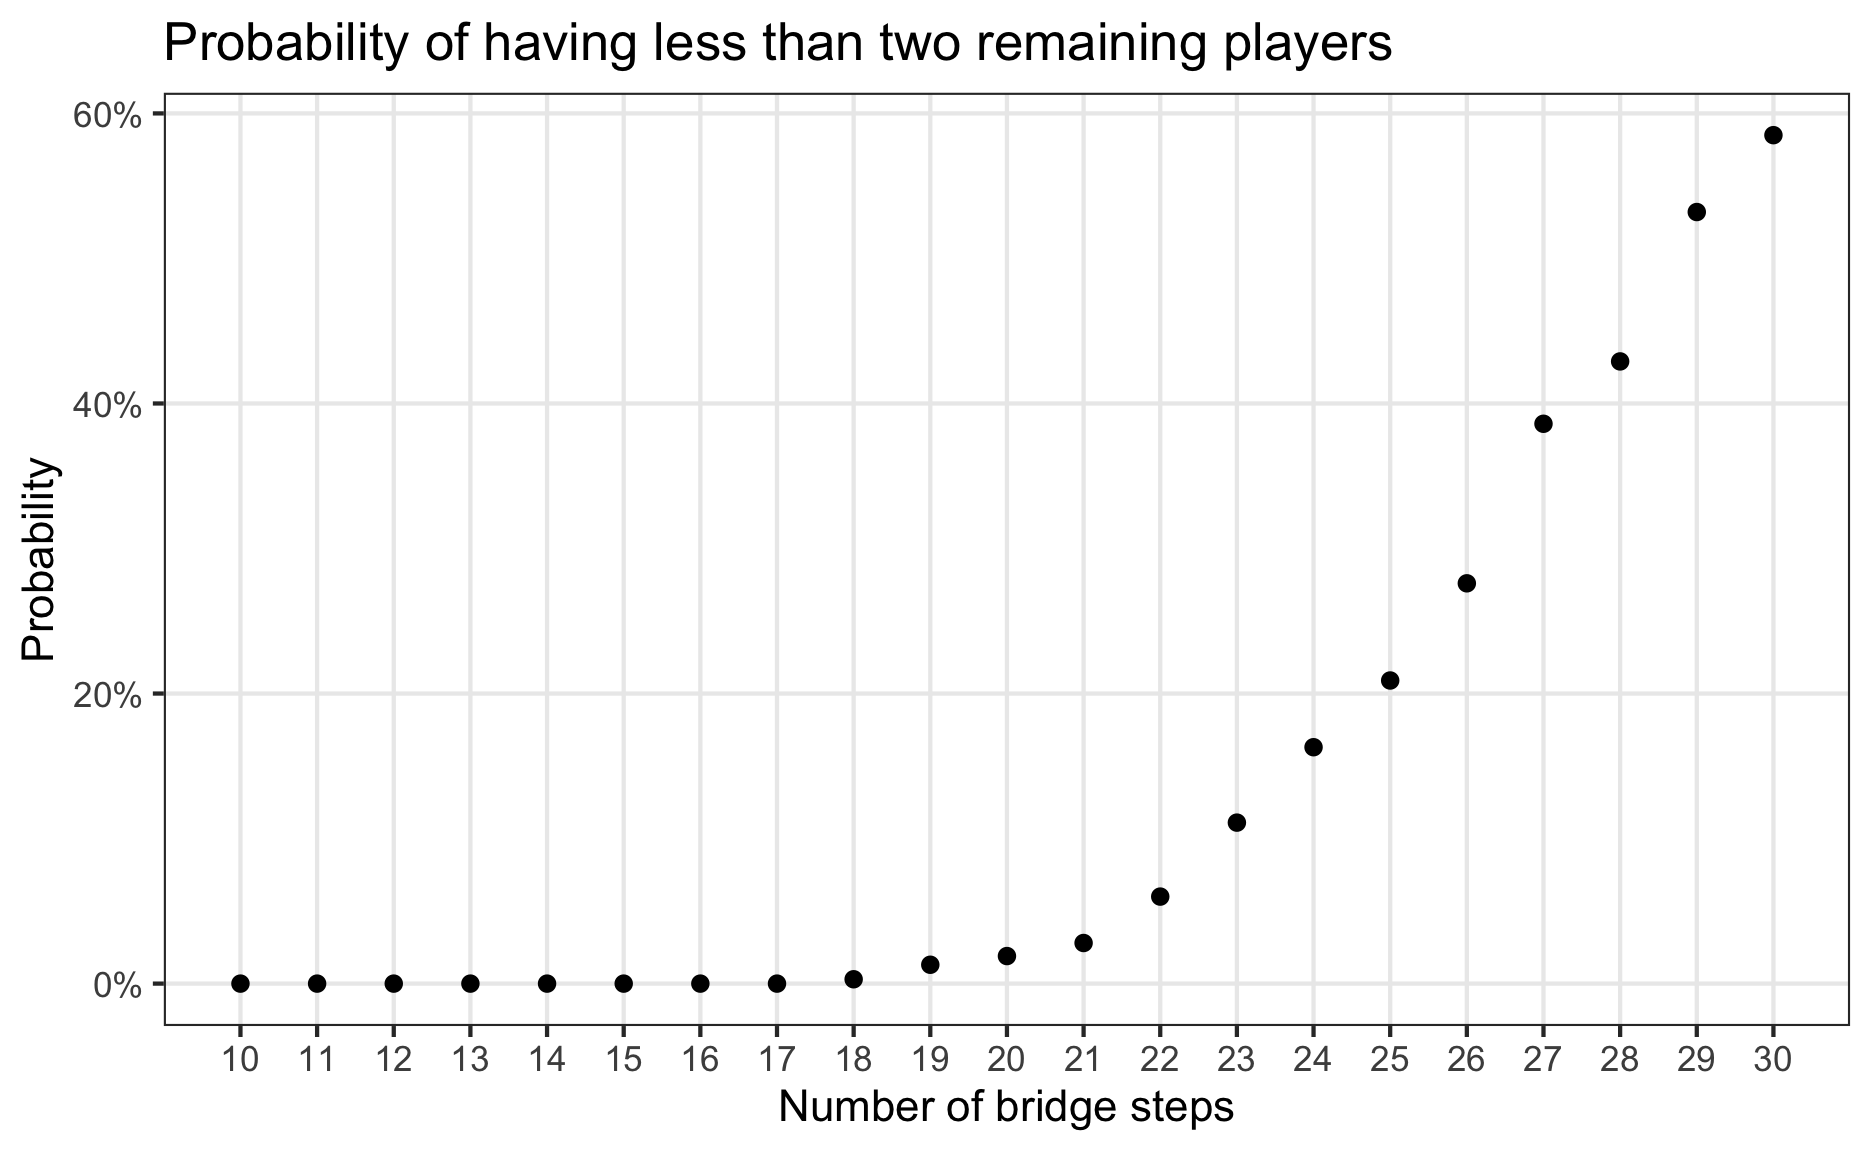
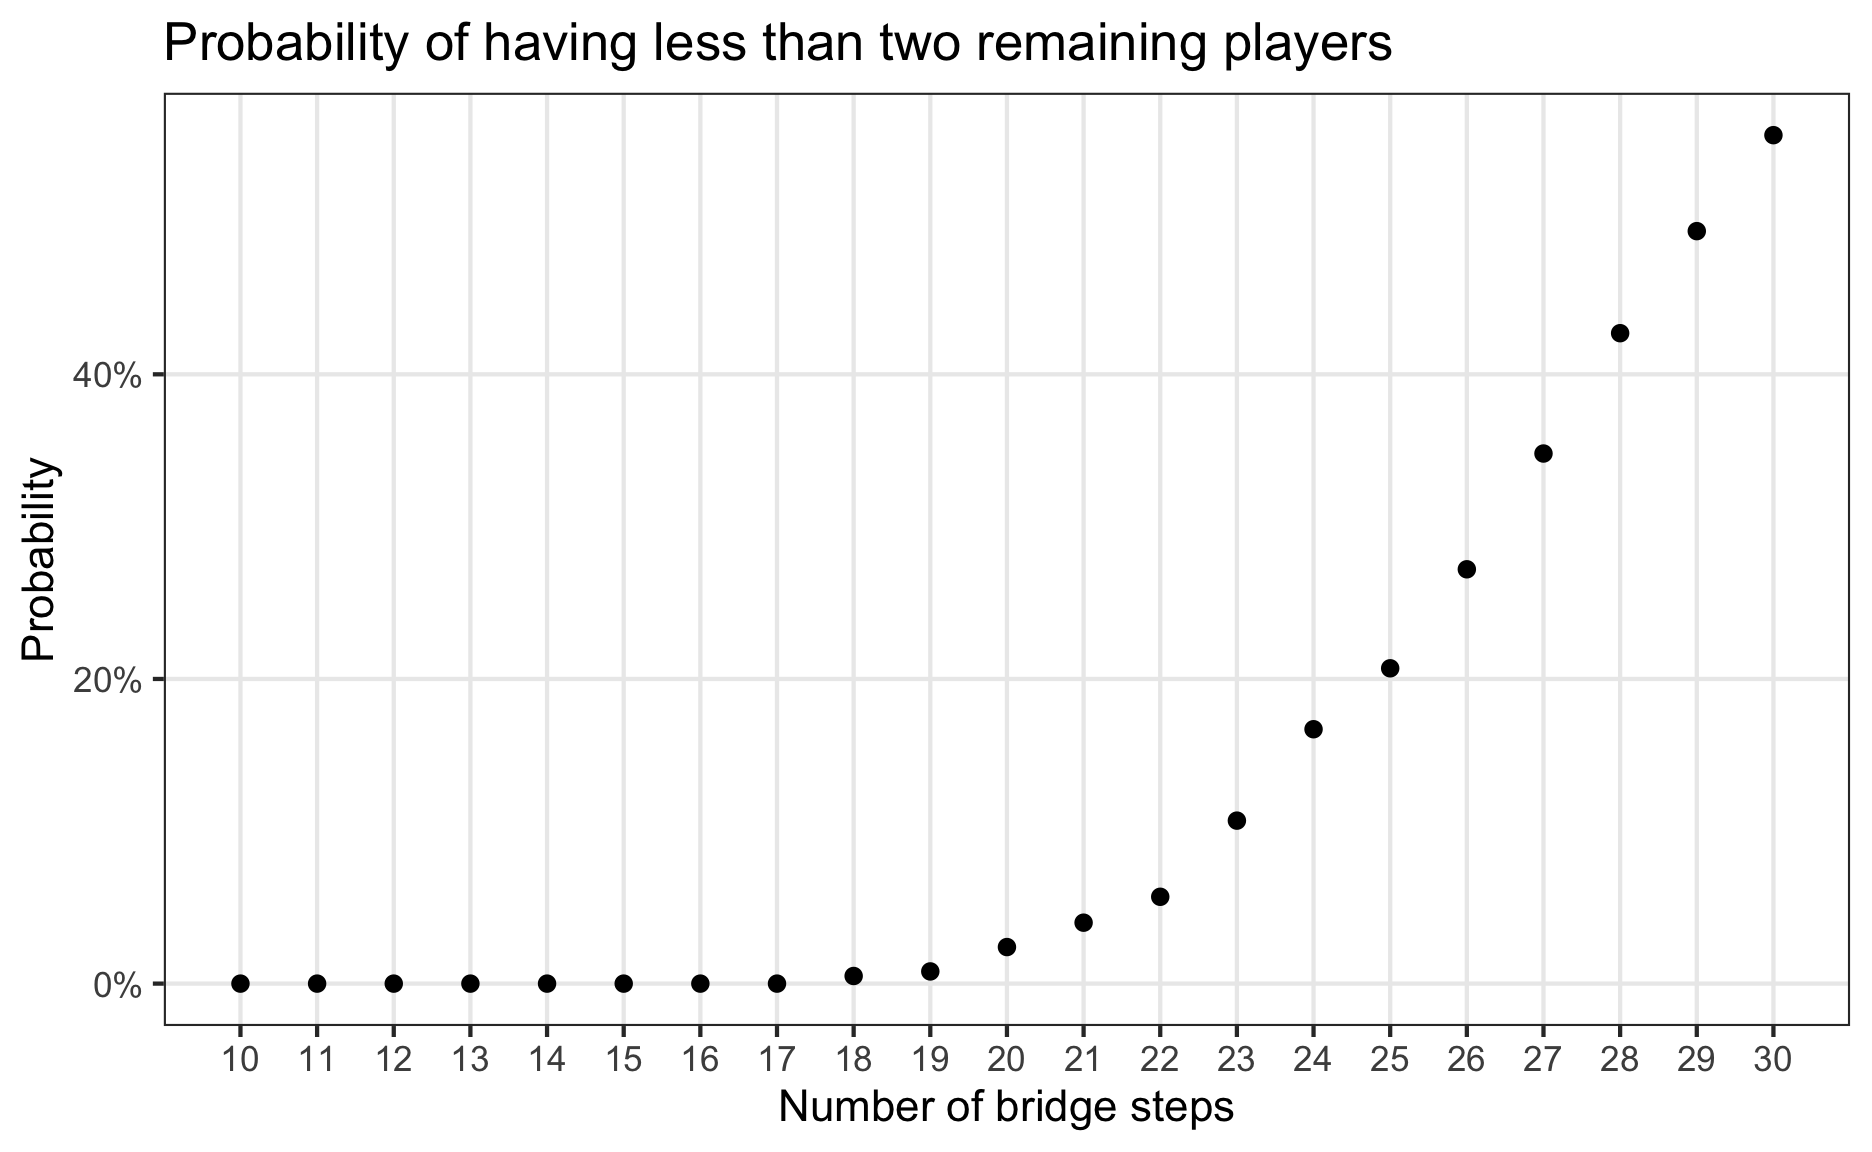
fixed small typos in the squid game post

diff --git a/_posts/2021-10-19-monte-carlo-bridge-game/monte-carlo-bridge-game.html b/_posts/2021-10-19-monte-carlo-bridge-game/monte-carlo-bridge-game.html
@@ -117,7 +117,7 @@ code span.wa { color: #5e5e5e; font-style: italic; } /* Warning */
   <!--/radix_placeholder_rmarkdown_metadata-->
   
   <script type="text/json" id="radix-resource-manifest">
-  {"type":"character","attributes":{},"value":["figs/unnamed-chunk-11-1.png","figs/unnamed-chunk-7-1.png","figs/unnamed-chunk-8-1.png","squid-game.png"]}
+  {"type":"character","attributes":{},"value":["figs/unnamed-chunk-11-1.png","figs/unnamed-chunk-7-1.png","figs/unnamed-chunk-8-1.png","monte-carlo-bridge-game_files/anchor-4.2.2/anchor.min.js","monte-carlo-bridge-game_files/bowser-1.9.3/bowser.min.js","monte-carlo-bridge-game_files/distill-2.2.21/template.v2.js","monte-carlo-bridge-game_files/header-attrs-2.11/header-attrs.js","monte-carlo-bridge-game_files/jquery-3.6.0/jquery-3.6.0.js","monte-carlo-bridge-game_files/jquery-3.6.0/jquery-3.6.0.min.js","monte-carlo-bridge-game_files/jquery-3.6.0/jquery-3.6.0.min.map","monte-carlo-bridge-game_files/popper-2.6.0/popper.min.js","monte-carlo-bridge-game_files/tippy-6.2.7/tippy-bundle.umd.min.js","monte-carlo-bridge-game_files/tippy-6.2.7/tippy-light-border.css","monte-carlo-bridge-game_files/tippy-6.2.7/tippy.css","monte-carlo-bridge-game_files/tippy-6.2.7/tippy.umd.min.js","monte-carlo-bridge-game_files/webcomponents-2.0.0/webcomponents.js","squid-game.png"]}
   </script>
   <!--radix_placeholder_navigation_in_header-->
   <!--/radix_placeholder_navigation_in_header-->
@@ -1575,9 +1575,9 @@ code span.wa { color: #5e5e5e; font-style: italic; } /* Warning */
 <span class='va'>single_game</span>
 </code></pre>
 </div>
-<pre><code>#&gt;  [1] 0 0 0 0 0 0 0 0 0 1 1 1 1 1 1 1</code></pre>
+<pre><code>#&gt;  [1] 0 0 0 0 0 0 0 0 0 0 0 0 1 1 1 1</code></pre>
 </div>
-<p>So after one game, we had 7 survivors. But of course if we want to get an estimate of the <em>expected</em> number of survivors, we need to run lots of trials of the game (a lot of bits are about to die).</p>
+<p>So after one game, we had 4 survivors. But of course if we want to get an estimate of the <em>expected</em> number of survivors, we need to run lots of trials of the game (a lot of bits are about to die).</p>
 <h1 id="estimating-the-expected-number-of-survivors">Estimating the expected number of survivors</h1>
 <p>I ran my trials inside a data.table, a simulation strategy I picked up from <a href="https://grantmcdermott.com/">Grant McDermott</a> and his wonderful post on <a href="https://grantmcdermott.com/efficient-simulations-in-r/">efficient simulations in R</a>.</p>
 <div class="layout-chunk" data-layout="l-body">
@@ -1611,9 +1611,9 @@ code span.wa { color: #5e5e5e; font-style: italic; } /* Warning */
 #&gt;  4:      4     0    42
 #&gt;  5:      5     0    42
 #&gt;  6:      6     0    42
-#&gt;  7:      7     1    42
-#&gt;  8:      8     1    42
-#&gt;  9:      9     1    42
+#&gt;  7:      7     0    42
+#&gt;  8:      8     0    42
+#&gt;  9:      9     0    42
 #&gt; 10:     10     1    42
 #&gt; 11:     11     1    42
 #&gt; 12:     12     1    42
@@ -1661,7 +1661,7 @@ code span.wa { color: #5e5e5e; font-style: italic; } /* Warning */
 <blockquote>
 <p><strong>“Which number should I choose?”</strong></p>
 </blockquote>
-<p>Obviously choosing a larger number closer to the back of the line gives the player a higher probability of survival because the players in front identify all the “safe” glass panes. But how likely would you be to survive if you chose a number near the middle (which most players chose first)?</p>
+<p>Obviously choosing a larger number closer to the back of the line gives the player a higher probability of survival because the players in front identify all the “safe” glass panes. But how likely would you be to survive if you chose a number near the middle (which most players in the TV series chose first)?</p>
 <p>Since we have all the results of every trial outcome for every player in a convenient data.table, computing the probability of surviving for each player is straightforward:</p>
 <div class="layout-chunk" data-layout="l-body">
 <div class="sourceCode">
@@ -1693,9 +1693,9 @@ code span.wa { color: #5e5e5e; font-style: italic; } /* Warning */
 <span class='fu'><a href='https://rdrr.io/r/base/sum.html'>sum</a></span><span class='op'>(</span><span class='va'>trials_counts</span><span class='op'>$</span><span class='va'>count</span> <span class='op'>&lt;</span> <span class='fl'>2</span><span class='op'>)</span> <span class='op'>/</span> <span class='va'>num_trials</span>
 </code></pre>
 </div>
-<pre><code>#&gt; [1] 0.0032</code></pre>
+<pre><code>#&gt; [1] 0.0036</code></pre>
 </div>
-<p>Of course this is probably an under-estimate of the true probability of having less than two survivors because the players are humans, which might make some irrational choices when playing such a deadly game (as we saw play out in the TV series version of the game).</p>
+<p>Of course this is probably an under-estimate of the true probability of having less than two survivors because the players are human beings who tend to make irrational choices when playing a deadly game (as we saw play out in the TV series version of the game).</p>
 <p>Still, what if the game designers were more risk seeking? How many steps could they include if they were willing to live with, for example, a 5% chance of having less than 2 players remaining at the end of the bridge game?</p>
 <p>To answer that, we have to re-run our simulations, but with an increasing number of steps. To keep things simple, I run 1,000 iterations of the game over an increasing number of steps from 10 to 30:</p>
 <div class="layout-chunk" data-layout="l-body">
@@ -1741,19 +1741,19 @@ code span.wa { color: #5e5e5e; font-style: italic; } /* Warning */
 </div>
 <p><img src="figs/unnamed-chunk-11-1.png" width="624" style="display: block; margin: auto;" /></p>
 </div>
-<p>I found it quite interesting that 18 steps seems to be the point at which the probability of having less than two remaining players begins to increase from essentially 0. With just a few more steps, the probability rapidly increases:</p>
+<p>I found it interesting that 18 steps seems to be the point at which the probability of having less than two remaining players begins to increase from essentially 0. With just a few more steps, the probability rapidly increases:</p>
 <div class="layout-chunk" data-layout="l-body">
 <div class="sourceCode">
 <pre class="sourceCode r"><code class="sourceCode r"><span class='va'>step_summary</span><span class='op'>[</span><span class='va'>steps</span> <span class='op'>%in%</span> <span class='fu'><a href='https://rdrr.io/r/base/seq.html'>seq</a></span><span class='op'>(</span><span class='fl'>18</span>, <span class='fl'>23</span><span class='op'>)</span><span class='op'>]</span>
 </code></pre>
 </div>
 <pre><code>#&gt;    steps p_under2
-#&gt; 1:    18    0.003
-#&gt; 2:    19    0.013
-#&gt; 3:    20    0.019
-#&gt; 4:    21    0.028
-#&gt; 5:    22    0.060
-#&gt; 6:    23    0.111</code></pre>
+#&gt; 1:    18    0.005
+#&gt; 2:    19    0.008
+#&gt; 3:    20    0.024
+#&gt; 4:    21    0.040
+#&gt; 5:    22    0.057
+#&gt; 6:    23    0.107</code></pre>
 </div>
 <p>Okay, that’s it! I’m sure I probably made an error somewhere - let me know if you find one, and hopefully this was an interesting example of how to conduct some relatively efficient Monte Carlo simulations in R with the help of the {data.table} package.</p>
 <h1 id="appendix">Appendix</h1>
@@ -1769,7 +1769,7 @@ code span.wa { color: #5e5e5e; font-style: italic; } /* Warning */
     fig.path   <span class='op'>=</span> <span class='st'>"figs/"</span>,
     fig.retina <span class='op'>=</span> <span class='fl'>3</span>
 <span class='op'>)</span>
-<span class='fu'><a href='https://rdrr.io/r/base/Random.html'>set.seed</a></span><span class='op'>(</span><span class='fl'>42</span><span class='op'>)</span>
+<span class='fu'><a href='https://rdrr.io/r/base/Random.html'>set.seed</a></span><span class='op'>(</span><span class='fl'>5678</span><span class='op'>)</span>
 <span class='co'># Create an initial data.table of players</span>
 <span class='kw'><a href='https://rdrr.io/r/base/library.html'>library</a></span><span class='op'>(</span><span class='va'><a href='https://r-datatable.com'>data.table</a></span><span class='op'>)</span>
 
